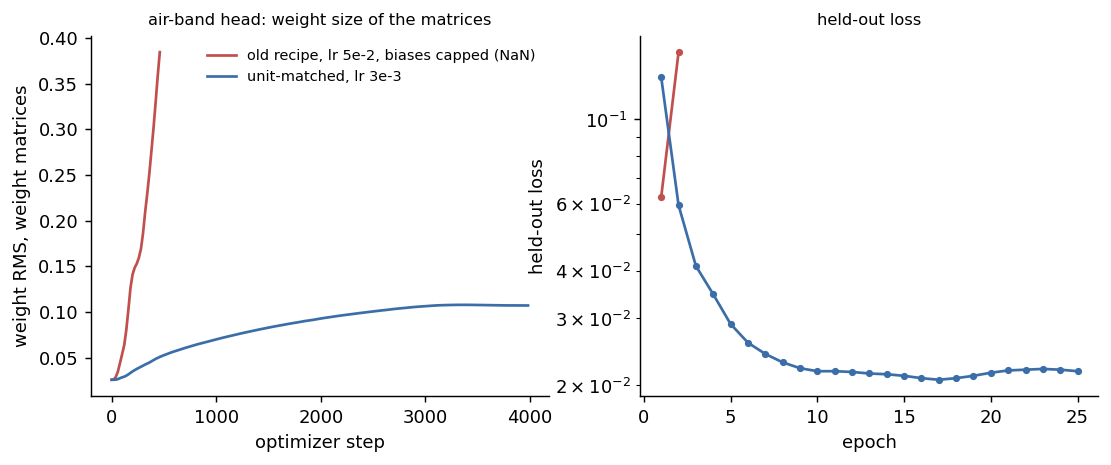
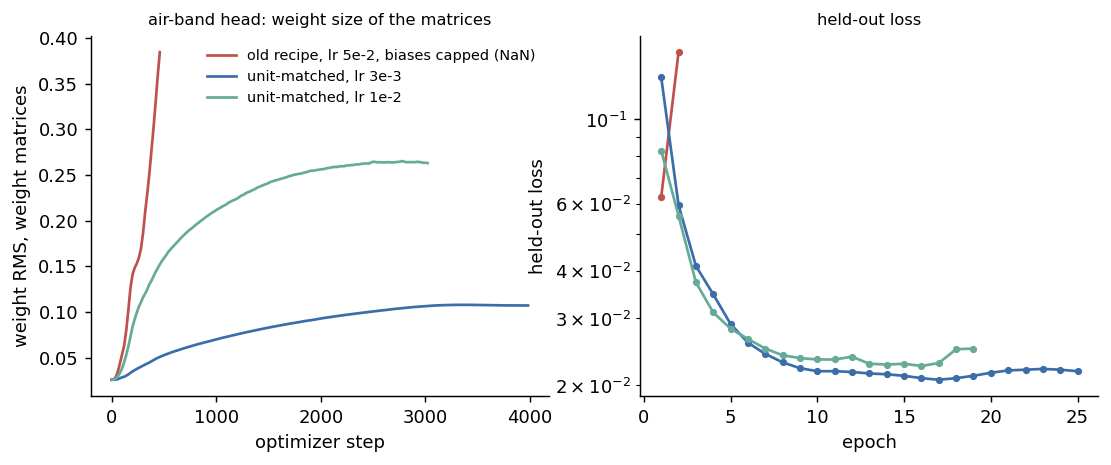
Muon guide: AIR_U10 range test, onset-head unit-matched arms, starting lr 1e-3..3e-3; air_head figure rebuilt
Claude-Session: https://claude.ai/code/session_013CeGPpfMQ1gjhC89WHXG1t

diff --git a/blog/2026-10-21-muon-survival-guide-DRAFT.md b/blog/2026-10-21-muon-survival-guide-DRAFT.md
@@ -10,9 +10,8 @@ state; the step-size chart and the bf16 bars are labelled arithmetic / CPU probe
 Open before publishing:
   1. Audio: GHOST-NOTE picked and RMS-matched the four clips (provenance internal); WINTERMUTE stripped their metadata into
      blog/assets/. Nobody has listened to the selected excerpts yet; the picks rest on recorded verdicts.
-  2. Section 6 (batch): the sweep runs tonight; "pending" until then. Section 4: the AIR_U10 arm (unit-matched, lr 1e-2,
-     the real range test) runs before the sweep.
-  3. Onset-head unit-matched arms (ON_U1 lr 1e-3, ON_U3 lr 3e-3) read out this afternoon.
+  2. Section 6 (batch): the sweep runs from 13:34 (lr 1e-3); "pending" until then.
+  3. Done 13:40: AIR_U10, ON_U1 and ON_U3 are in section 4, the section 8 row and section 11.
   4. Final review round on this version.
 No checkpoint names, paths, infrastructure or names of people below; arm labels (B2, B3) are how the results are filed. -->
 
@@ -130,10 +129,23 @@ so far is lr 3e-3, about 10 times AdamW's best lr, which is about 5 to 10 times 
 **Our first test of it.** On a small head that had diverged at every learning rate above 1e-2 we tried, the rescaled
 recipe at lr 3e-3 trained for all 25 epochs and reached the same held-out loss as the old recipe at its best setting
 (0.0207 against 0.0206). This is an equal-step comparison: 0.2 x 3e-3 moves the matrices as far per step as 1e-2 / 16
-did. It shows that the conversion works, not that the usable range is wider. That test (the same recipe at lr 1e-2) is
-running.
+did. It shows that the conversion works, not that the usable range is wider.
 
-![Air-band head. Left: weight size of the matrices. Red: old recipe at lr 5e-2 with a separate rate for the biases; it became NaN in epoch 3. Blue: rescaled recipe at lr 3e-3. Right: held-out loss.](assets/muon-survival-guide/air_head.png)
+**The range test.** We then ran the same recipe at lr 1e-2, which moves the matrices as far per step as the old recipe at
+lr 3e-2. At that step size the old recipe became NaN on this head twice, in epochs 15 and 26. The rescaled run did not
+diverge: the weight size of the matrices levelled off at about 0.26 (0.11 at lr 3e-3), and no learning-rate cut was
+needed. Its best held-out loss, 0.0225, was worse than the 0.0207 at lr 3e-3, and the loss rose from epoch 17, so the stop
+rule (section 5) ended the run after epoch 19. Two limits: the old runs used a batch of 64 and this one 32, and the
+rescaled recipe changes two things at once (the matrix scale and AdamW for the biases and gains), so we cannot say which
+of the two prevents the divergence. What we can say: a learning rate 3 times too high now costs some loss instead of the
+run.
+
+**On a second head** (the onset head of section 1) the rescaled recipe at lr 1e-3 reached 0.1798 and was still improving
+at epoch 20; at lr 3e-3 it reached 0.1829 at epoch 14 and then drifted up. The old recipe's best on this head was 0.1822.
+These three differ by less than we would expect from changing the random seed. The best rate differed between the two
+heads (3e-3 for the air head, 1e-3 for the onset head), so we would start a new job at 1e-3 and try 3e-3.
+
+![Air-band head. Left: weight size of the matrices. Red: old recipe at lr 5e-2 with a separate rate for the biases; it became NaN in epoch 3. Blue: rescaled recipe at lr 3e-3. Green: rescaled recipe at lr 1e-2. Right: held-out loss.](assets/muon-survival-guide/air_head.png)
 
 ## 5. Weight size, weight decay, and how to see a run going wrong
 
@@ -276,7 +288,7 @@ control heads of section 1.
 | MONA | adds a term from the difference between consecutive gradients | worse than AdamW in one comparison; crashed at high lr on another head. At small batch that difference is mostly noise; not a clean test |
 | NorMuon | normalises each row of the update | in our version it cancels the shape-based radius exactly; on wide matrices our variant steps 2-3.6x larger than the reference implementation. No outcome test yet |
 | Separate lr for biases and gains | 1-D parameters on their own lr | B2 vs B3 (section 4): trains at lr 3e-2 where the shared lr does not; at lr 1e-2 no difference (0.1832 vs 0.1822) |
-| Update rescaled to AdamW size + AdamW for 1-D | Moonlight / SF-NorMuon rule | one head: same loss as the old best setting at equal step size, weights level; range test running |
+| Update rescaled to AdamW size + AdamW for 1-D | Moonlight / SF-NorMuon rule | two heads: same loss as the old best setting; at 3x the step size where the old recipe became NaN, it trained (somewhat worse loss, weights level) |
 | Radial brake, escape velocity, burn-in | limit weight-norm growth; grow the step over time; delay averaging | all within 0.001-0.006 of the plain recipe, i.e. inside the noise. Escape velocity was inactive in early runs and later raised the step from 1.0 to 1.6x while a run was diverging |
 | Variance damping (VADD) | lowers the step when the loss variance is high | applied its factor twice when it fired (a bug, fixed); in an ablation, removing it did not change the adapter's size |
 | Signal-to-noise gate | scales each element by its estimated signal-to-noise ratio | sat at its own noise floor (0.18-0.21), so it acted as a fixed cut of the lr to about 0.2x. Removing it from a DoRA run made the adapter 4.4x larger in 1,011 steps |
@@ -336,7 +348,8 @@ Our current suggestion for a small Muon fine-tune. Items marked as being tested 
 1. Muon on the hidden 2-D matrices only, with fused Q/K/V and AdaLN matrices split. Embeddings, the output layer, biases,
    gains and DoRA magnitudes on AdamW. Print the groups at start-up and check them.
 2. Rescale the Muon update to AdamW size (0.2 x sqrt(max(m, n)), or update RMS 0.2 x lr), so that one learning rate
-   works for both groups. *(Being tested by us.)* Then start from the learning rate you would use with AdamW.
+   works for both groups. On our heads the best rate after this rescale was 1e-3 to 3e-3, 3 to 10 times what AdamW
+   wanted on the same heads; start at the low end.
 3. Weight decay on the matrices (0.1 in Moonlight, 0.05 in SF-NorMuon); none on gains and biases.
 4. Warmup of a few percent of the run, and either Schedule-Free or a decaying schedule. Not a constant learning rate
    without one of them.
@@ -347,7 +360,7 @@ Our current suggestion for a small Muon fine-tune. Items marked as being tested 
 
 ## 12. Open questions
 
-- Whether the rescaled recipe widens the usable learning-rate range or only re-expresses it (test running).
+- Which part of the rescaled recipe (the matrix scale, or AdamW for the 1-D parameters) prevents the divergence.
 - What batch size Muon needs for our jobs (test running).
 - The effect of our routing errors (unsplit Q/K/V, AdaLN treated as a hidden matrix).
 - Whether the results on small heads carry over to full fine-tunes of large models.
